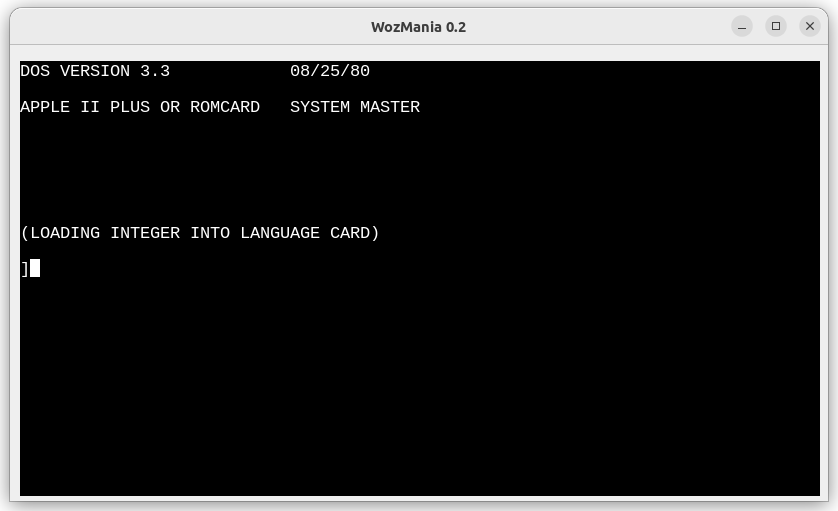
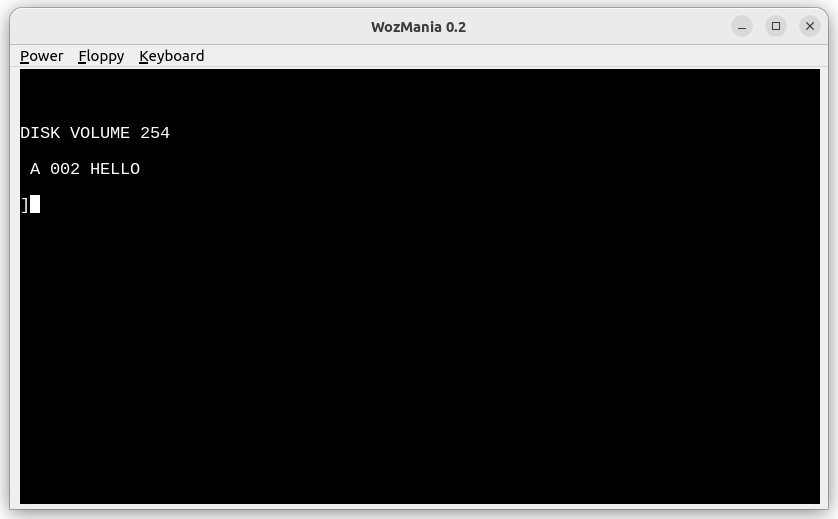
Add menus to GUI

diff --git a/src/gui/emulatorwindow.cpp b/src/gui/emulatorwindow.cpp
@@ -6,31 +6,44 @@
 
 #include "emulatorwindow.h"
 
-#include <QTimerEvent>
-#include <QLabel>
+#include <QMenuBar>
+#include <QMenu>
+#include <QAction>
 #include <QPainter>
 #include <QPaintEvent>
 
-#define FN "courier new" // font name
-#define FS 13            // font size
-#define BL 15            // font baseline
-#define X0 10            // left margin
-#define Y0 16            // top margin
-#define DX 10            // column spacing
-#define DY 18            // line spacing
-
 // Constructor
 EmulatorWindow::EmulatorWindow() :
+  QMainWindow(),
   socket(this),
   data(&socket)
 {
+  QAction *action;
+  QMenu *menu;
+
   setGeometry(100, 100,
-              X0 + DX * 80 + 8, Y0 + DY * 24 + 8);
+              X0 + DX * 80 + 8, Y0 + DY * 24 + 12);
   setWindowTitle("WozMania 0.2");
 
-  connect(&socket, SIGNAL(bytesWritten(qint64)), this, SLOT(bytesWritten(qint64)));
-  connect(&socket, SIGNAL(readyRead()), this, SLOT(readyRead()));
+  menu = menuBar()->addMenu("&Power");
+  action = new QAction("&Off", this);
+  action->setStatusTip("Turn computer off");
+  connect(action, &QAction::triggered, this, &EmulatorWindow::powerOff);
+  menu->addAction(action);
 
+  menu = menuBar()->addMenu("&Floppy");
+  action = new QAction("F&lush", this);
+  action->setStatusTip("Flush current disk");
+  connect(action, &QAction::triggered, this, &EmulatorWindow::flushDrive);
+  menu->addAction(action);
+
+  menu = menuBar()->addMenu("&Keyboard");
+  action = new QAction("&Ctrl-Reset", this);
+  action->setStatusTip("Press Ctrl-Reset");
+  connect(action, &QAction::triggered, this, &EmulatorWindow::ctrlReset);
+  menu->addAction(action);
+
+  connect(&socket, SIGNAL(readyRead()), this, SLOT(readyRead()));
   printf("Connecting to emulator...\n");
   socket.connectToServer("/tmp/wozmania.sock");
   if (!socket.waitForConnected(-1))
@@ -85,6 +98,24 @@ void EmulatorWindow::readyRead()
   delete output;
 }
 
+// Power off
+void EmulatorWindow::powerOff()
+{
+  close();
+}
+
+// Flush current disk
+void EmulatorWindow::flushDrive()
+{
+  data.writeRawData("\eF", 2);
+}
+
+// Press Ctrl-Reset
+void EmulatorWindow::ctrlReset()
+{
+  data.writeRawData("\eR", 2);
+}
+
 // Refresh window contents
 void EmulatorWindow::paintEvent(QPaintEvent *event)
 {
@@ -128,7 +159,22 @@ void EmulatorWindow::paintEvent(QPaintEvent *event)
 // Send pressed key to emulator
 void EmulatorWindow::keyPressEvent(QKeyEvent *event)
 {
-  QByteArray input(event->text().toLatin1());
 
-  data.writeRawData(input.constData(), input.length());
+  if (event->key() == Qt::Key_Escape)
+  {
+    data.writeRawData("\e\e", 2);
+  }
+  else
+  {
+    QByteArray input(event->text().toLatin1());
+
+    data.writeRawData(input.constData(), input.length());
+  }
+}
+
+// Application quits
+void EmulatorWindow::closeEvent(QCloseEvent *event)
+{
+Q_UNUSED(event);
+  data.writeRawData("\eO", 2);
 }

diff --git a/src/gui/emulatorwindow.h b/src/gui/emulatorwindow.h
@@ -7,10 +7,19 @@
 #ifndef EmulatorWindow_H
 #define EmulatorWindow_H
 
-#include <QWidget>
+#include <QMainWindow>
 #include <QtNetwork/QLocalSocket>
+#include <QDataStream>
 
-class EmulatorWindow : public QWidget
+#define FN "courier new" // font name
+#define FS 13            // font size
+#define BL 15            // font baseline
+#define X0 10            // left margin
+#define Y0 28            // top margin
+#define DX 10            // column spacing
+#define DY 18            // line spacing
+
+class EmulatorWindow : public QMainWindow
 {
   Q_OBJECT
 
@@ -20,14 +29,18 @@ class EmulatorWindow : public QWidget
     char effect[24][80],
          text[24][80];
 
-  public slots:
+  private slots:
     void readyRead();
+    void powerOff();
+    void flushDrive();
+    void ctrlReset();
 
   public:
     EmulatorWindow();
     ~EmulatorWindow();
     virtual void paintEvent(QPaintEvent *event);
     virtual void keyPressEvent(QKeyEvent *event);
+    virtual void closeEvent(QCloseEvent *event);
 };
 
 #endif

diff --git a/docs/usage.md b/docs/usage.md
@@ -7,7 +7,6 @@
 ## How to Use
 
 
-
 ### Running WozMania
 
 #### Requirements
@@ -20,7 +19,6 @@ To run WozMania, you need:
 - at least 2 MB disk space
 - an ANSI terminal with at least 26 rows and 80 columns
 - if you want to use the GUI, a X-Window display.
-
 
 #### Instructions
 
@@ -42,8 +40,7 @@ If you plan to run Wozmania in a Graphical User interface:
   * run `sudo make install`
 2. Start the emulator by typing `wozmania`
 3. Start the GUI by typing `wozmania-gui`
-4. To exit the emulator, press Ctrl-C.
-
+4. To exit the emulator, select `Power` => `off` in the menus.
 
 #### The ROM file
 
@@ -63,18 +60,16 @@ WozMania essentially tries to emulate an Apple ]\[+. While other models,
 like the Apple //e, are out of focus, it is likely they will at least
 partially work if you use the ROM corresponding to those models.
 
-
-
 ### Using the Keyboard
 
-The following keys are defined:
+In text mode, the following keys are defined:
 
-| Linux  | Apple ]\[         |
-| ------ | ----------------- |
-| Ctrl-C | Ctrl-Reset        |
-| F1     | Flush floppy disk |
-| F3     | Ctrl-C            |
-| F4     | Power off         |
+| Linux keys | Apple ]\[         |
+| ---------- | ----------------- |
+| Ctrl-C     | Ctrl-Reset        |
+| F1         | Flush floppy disk |
+| F3         | Ctrl-C            |
+| F4         | Power off         |
 
 You can set the ratio at which the keyboard is polled for real.
 For example, if you set in `/etc/wozmania.conf`:
@@ -86,7 +81,6 @@ out of 128 (2^7 = 128). The idea is to accelerate the emulator
 by not spending more time in system calls than necessary.
 The default value is 8, meaning the keyboard is polled only
 one time out of 256.
-
 
 
 ### Using the Floppy Disks
@@ -143,7 +137,8 @@ tape on an original floppy disk.
 
 All changes to the disk are written to a cache in memory. This cache
 is flushed to disk when you exit the emulator. You can force flushing
-the current disk at any time by pressing F1. An unsaved cache is
+the current disk at any time by pressing F1 (in text mode) or by selecting
+`Floppy` => `Flush` menu (in graphical mode). An unsaved cache is
 shown as `D1` or `D2` below the emulated screen.
 
 #### Enabling or Disabling the Controller
@@ -164,7 +159,6 @@ floppy disable
 
 If the ROM file already contains ROM code for the floppy disk controller,
 it will be overwritten with a jump to the monitor.
-
 
 
 ### Using the Language Card
@@ -203,7 +197,6 @@ langcard disable
 ```
 
 
-
 ### Using the 80 Column Card
 
 WozMania emulates a Videoterm 80 column card in slot 3 from
@@ -233,27 +226,32 @@ You may completly disable the 80 column card by specifying:
 ```
 
 
-
 ### The Graphical User Interface
 
-The WozMania GUI is provided as a technical preview
-and is not finished yet.
-
-![The Graphical User Interface](gui.png)
+The WozMania GUI and the emulator are two separate programs.
 
 The emulator communicates with the GUI via the Unix domain socket
 `/tmp/wozmania.sock`.
+
+![The Graphical User Interface](gui.png)
+
+In graphical mode, the following menus are defined:
+
+| Linux menus                | Apple ]\[         |
+| -------------------------- | ----------------- |
+| `Power` => `Off`           | Power off         |
+| `Floppy` => `Flush`        | Flush floppy disk |
+| `Keyboard` => `Ctrl-Reset` | Ctrl-Reset        |
 
 To run WozMania with the GUI, specify in the configuration file:
 ```
 gui enable
 ```
 
-Current limitations:
-* no graphical menus
-* no support for blinking characters in text mode
-* no support yet for the low and high resolution
-  graphics of the Apple ]\[.
+You may return to the text mode by specifying:
+```
+gui disable
+```
 
 
 [Top](wozmania.md): Table of Contents - [Next](debug.md): How to Debug

diff --git a/README.md b/README.md
@@ -12,7 +12,7 @@ the strict minimum.
 
 ## What is done
 
-WozMania 0.2, as of 2022-07-01, emulates:
+WozMania 0.2, as of 2022-07-03, emulates:
 
 * a 6502 processor, no decimal mode;
 * an Apple ]\[ keyboard;
@@ -20,9 +20,7 @@ WozMania 0.2, as of 2022-07-01, emulates:
 * floppy disks 1 and 2, `.nib` and `.dsk` formats;
 * a language card.
 
-WozMania works in an ANSI terminal. There's also a first sketch of a GUI
-interface; the idea is to support low and high resolution graphics in that
-interface, although that does not work yet.
+WozMania runs either with an ANSI terminal or with a GUI interface.
 
 
 ## Usage
